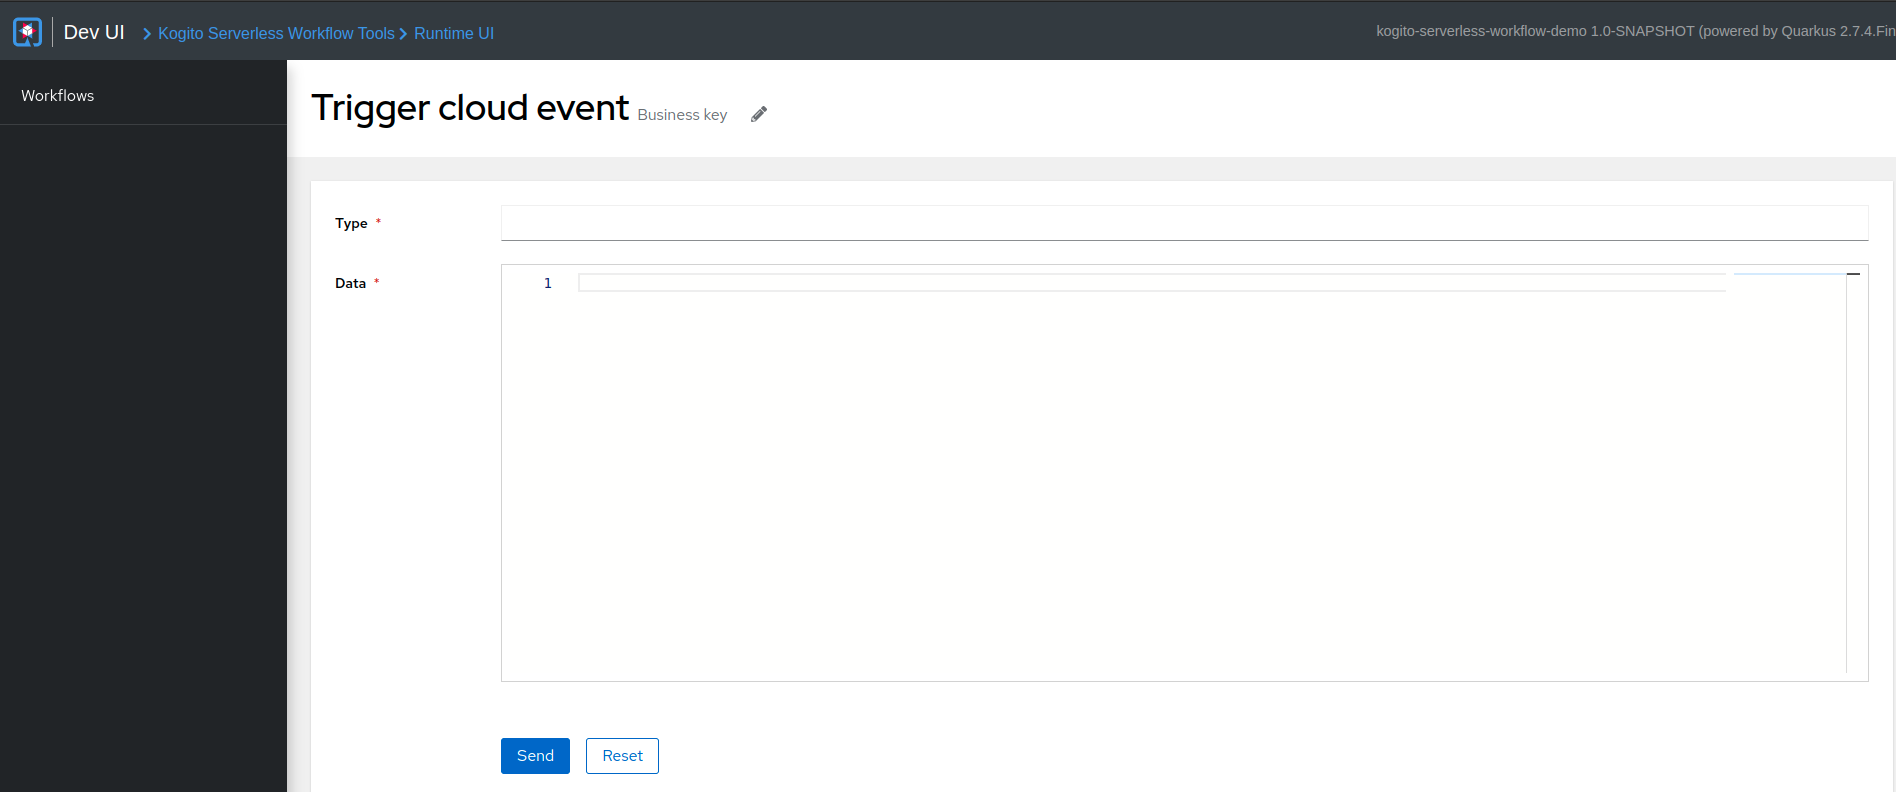
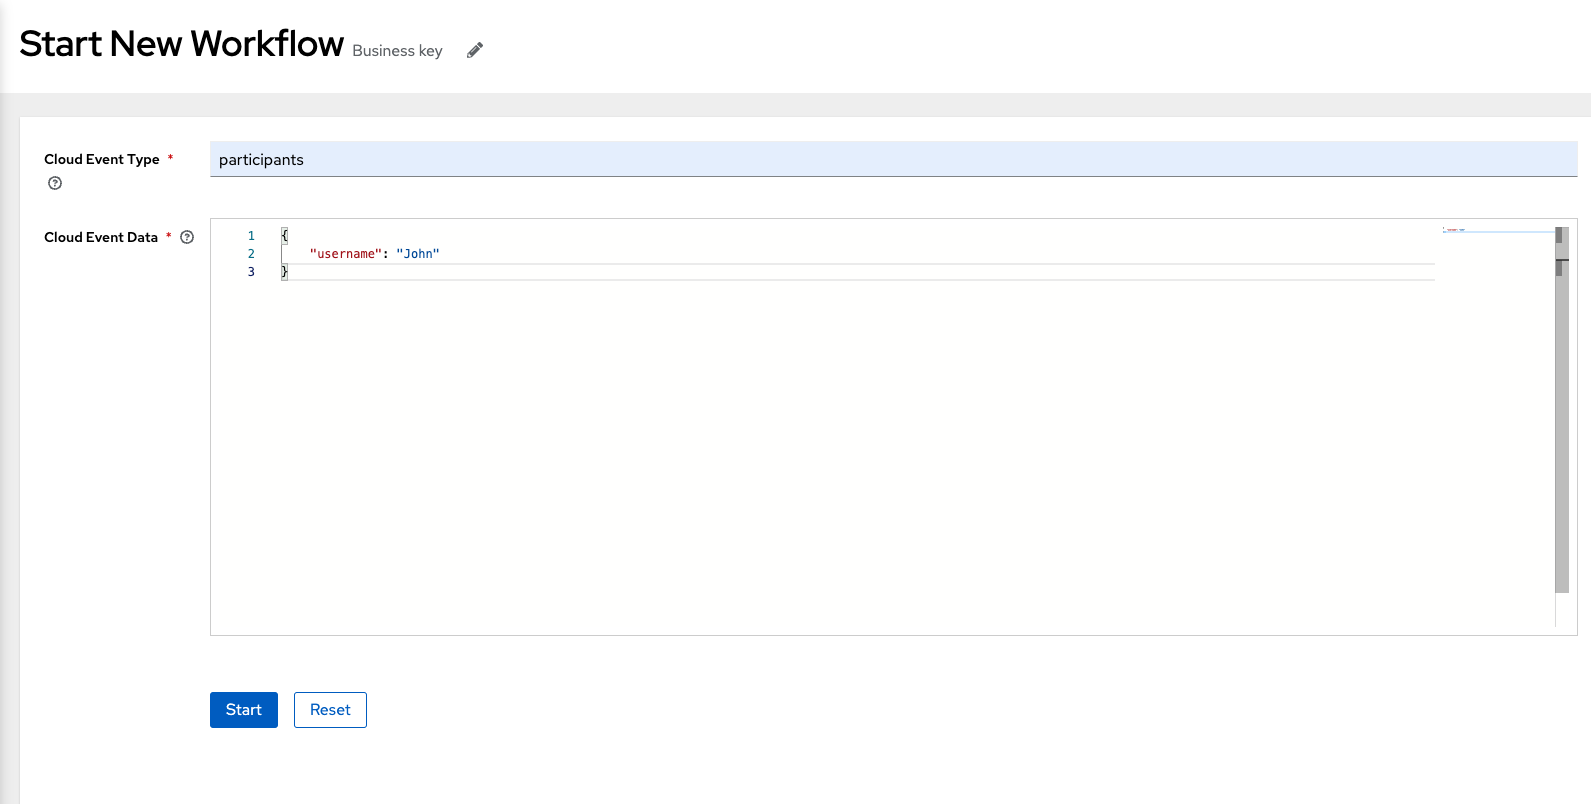
deploy: 40d9c73f945641abe0113eb8f616e5c26c4dc66c

Changed region(s): [[0.0, 0.0, 1.0, 1.0], [0.9239, 0.2727, 0.9855, 0.7576], [0.2464, 0.9091, 0.3388, 1.0]]

diff --git a/serverlessworkflow/main/tooling/quarkus-dev-ui-extension/quarkus-dev-ui-workflow-definition-page.html b/serverlessworkflow/main/tooling/quarkus-dev-ui-extension/quarkus-dev-ui-workflow-definition-page.html
@@ -389,44 +389,49 @@
 </div>
 </div>
 <div class="sect1">
-<h2 id="con-trigger-cloud-event-page"><a class="anchor" href="#con-trigger-cloud-event-page"></a>Trigger cloud event page</h2>
+<h2 id="con-trigger-cloud-event-page"><a class="anchor" href="#con-trigger-cloud-event-page"></a>Start New Workflow page</h2>
 <div class="sectionbody">
 <div class="paragraph">
-<p>The Trigger cloud event page is used to trigger the cloud events related to a workflow definition. To navigate to the <strong>Trigger cloud event</strong> page, click on the play button in the <strong>Actions</strong> column of workflow definitions table.</p>
+<p>The <strong>Start New Workflow</strong> page is used to start a workflow instance through a cloud event or a custom form, depending on the workflow configuration. To navigate to the <strong>Start New Workflow</strong> page, click the play button in the <strong>Actions</strong> column of the workflow definitions table.</p>
+</div>
+<div class="paragraph">
+<p><strong>If there is no JSON schema for the workflow, then the workflow is started by triggering a cloud event.
+To trigger a cloud event, you can use the *Cloud Event Type</strong> and <strong>Cloud Event Data</strong> input fields to set the type of a cloud event and event payload in JSON format respectively and click the <strong>Start</strong> button to start a workflow. The <strong>Reset</strong> button on the page resets the values entered in the given fields.</p>
 </div>
 <div class="imageblock">
 <div class="content">
 <img src="../../_images/tooling/quarkus-dev-ui-extension/kogito-swf-tools-trigger-cloud-events.png" alt="kogito swf tools trigger cloud events">
 </div>
-<div class="title">Figure 3. Trigger cloud event page</div>
+<div class="title">Figure 3. Starting a workflow using a cloud event</div>
 </div>
 <div class="paragraph">
-<p>The <strong>Trigger cloud event</strong> page consists of the two fields, including <strong>Type</strong> and <strong>Data</strong>. To trigger a cloud event, you can use the <strong>Type</strong> and <strong>Data</strong> input fields to set the type of a cloud event and event payload in JSON format respectively, and click the <strong>Send</strong> button to start a workflow. The <strong>Reset</strong> button on the page resets the values entered in the given fields.</p>
+<p>If there is a JSON schema for the workflow configured in the <code>dataInputSchema</code> property, then a form is displayed to start a new workflow instance. You can fill in the required form details and click the <strong>Start</strong> button to trigger the workflow.
+The <strong>Reset</strong> button is used to clear the form data.</p>
 </div>
 <div class="imageblock">
 <div class="content">
-<img src="../../_images/tooling/quarkus-dev-ui-extension/kogito-swf-tools-trigger-cloud-event-values.png" alt="kogito swf tools trigger cloud event values">
+<img src="../../_images/tooling/quarkus-dev-ui-extension/kogito-swf-tools-trigger-cloud-events-custom-form.png" alt="kogito swf tools trigger cloud events custom form">
 </div>
-<div class="title">Figure 4. Example values to trigger a workflow</div>
+<div class="title">Figure 4. Starting a workflow using the form</div>
 </div>
 <div class="paragraph">
-<p>You can also use the <strong>Business key</strong> text box to define a custom business key value to the workflow instance. If the <strong>Business Key</strong> field is blank, then an auto-generated business key is defined to the workflow instance.</p>
+<p>You can also use the <strong>Business key</strong> text box to define a custom business key value to the workflow instance. If the <strong>Business Key</strong> field is blank, then an auto-generated business key is defined for the workflow instance.</p>
 </div>
 <div class="paragraph">
 <p>When a workflow instance starts successfully, a success alert appears on the top of the screen, which contains a <strong>Go to workflow list</strong> option. The <strong>Go to workflow list</strong> option enables you to navigate to the <a href="quarkus-dev-ui-workflow-instances-page.html" class="xref page">Workflow Instances page</a>.</p>
 </div>
 <div class="imageblock">
 <div class="content">
-<img src="../../_images/tooling/quarkus-dev-ui-extension/kogito-swf-tools-trigger-cloud-event-success-alert.png" alt="kogito swf tools trigger cloud event success alert">
+<img src="../../_images/tooling/quarkus-dev-ui-extension/kogito-swf-tools-start-workflow-success-alert.png" alt="kogito swf tools start workflow success alert">
 </div>
 <div class="title">Figure 5. Example of trigger workflow success alert</div>
 </div>
 <div class="paragraph">
-<p>If incorrect values are entered in the <strong>Type</strong> and <strong>Data</strong> fields, then a failure alert appears on the top of the screen, containing <strong>View Details</strong> and <strong>Go to workflow list</strong> options. The <strong>View Details</strong> enables you to view the error message.</p>
+<p>If there is an issue while starting a workflow, then a failure alert appears on the top of the screen, containing <strong>View Details</strong> and <strong>Go to workflow list</strong> options. The <strong>View Details</strong> enables you to view the error message.</p>
 </div>
 <div class="imageblock">
 <div class="content">
-<img src="../../_images/tooling/quarkus-dev-ui-extension/kogito-swf-tools-trigger-cloud-event-fail-alert.png" alt="kogito swf tools trigger cloud event fail alert">
+<img src="../../_images/tooling/quarkus-dev-ui-extension/kogito-swf-tools-start-workflow-fail-alert.png" alt="kogito swf tools start workflow fail alert">
 </div>
 <div class="title">Figure 6. Example of trigger workflow failure alert</div>
 </div>
